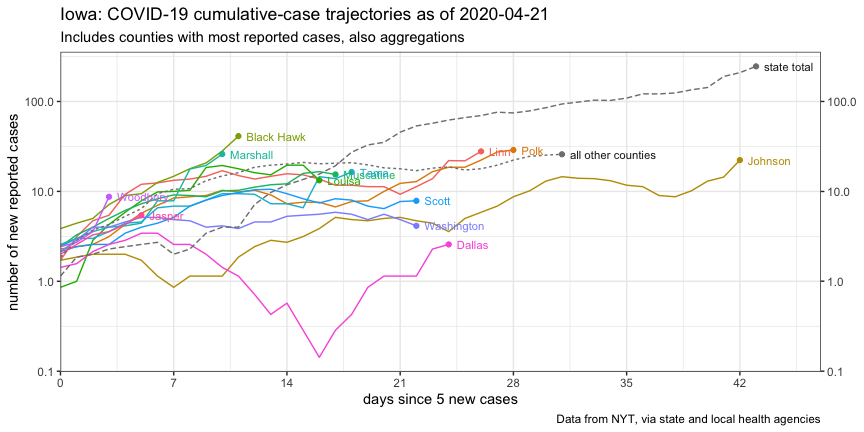
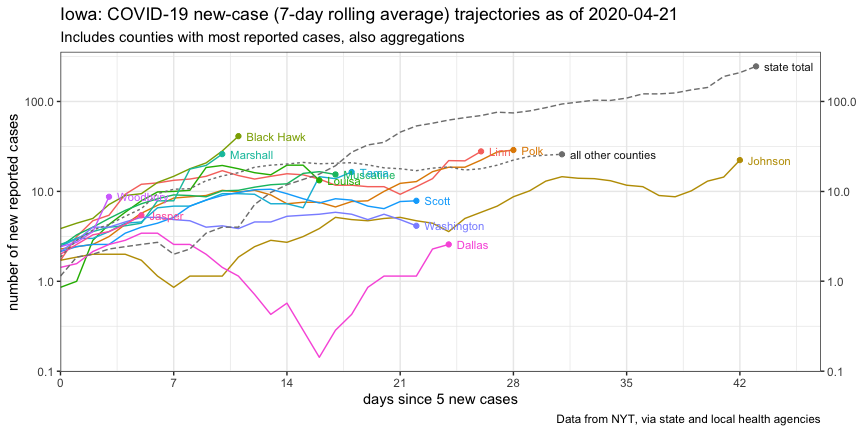
update (#11)
* Update README with Ian's plots and opinions

* update

* fix typo

* clean-up

* switch data-source for doubling-time map

* Monday update

* Add labels to plots directly

* incorporate new scraping

* fix plot-title

Changed region(s): [[0.2188, 0.0, 0.7812, 0.0602]]

diff --git a/ijlyttle/03-Plots.md b/ijlyttle/03-Plots.md
@@ -9,14 +9,14 @@ library("glue")
 library("tidyverse")
 ```
 
-    ## ── Attaching packages ─────────────────────────────────────────────────────────────────────────────────────── tidyverse 1.3.0 ──
+    ## ── Attaching packages ────────────────────────────────────────────────────────────────────────────────────────────── tidyverse 1.3.0 ──
 
     ## ✓ ggplot2 3.3.0          ✓ purrr   0.3.3     
     ## ✓ tibble  2.1.3          ✓ dplyr   0.8.4     
     ## ✓ tidyr   1.0.0          ✓ stringr 1.4.0     
     ## ✓ readr   1.3.1.9000     ✓ forcats 0.4.0
 
-    ## ── Conflicts ────────────────────────────────────────────────────────────────────────────────────────── tidyverse_conflicts() ──
+    ## ── Conflicts ───────────────────────────────────────────────────────────────────────────────────────────────── tidyverse_conflicts() ──
     ## x dplyr::collapse() masks glue::collapse()
     ## x dplyr::filter()   masks stats::filter()
     ## x dplyr::lag()      masks stats::lag()
@@ -520,7 +520,7 @@ plot_new_cases_week_avg_ft <-
   labs(
     x = glue("days since {params$threshold_index_new_cases} new cases"),
     y = "number of new reported cases",
-    title = glue("Iowa: COVID-19 cumulative-case trajectories as of {max(data_combined_index$date)}"),
+    title = glue("Iowa: COVID-19 new-case (7-day rolling average) trajectories as of {max(data_combined_index$date)}"),
     subtitle = "Includes counties with most reported cases, also aggregations",
     caption = params$nyt_citation
   )
